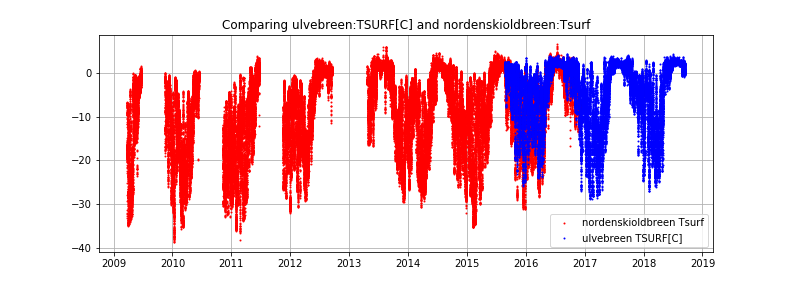
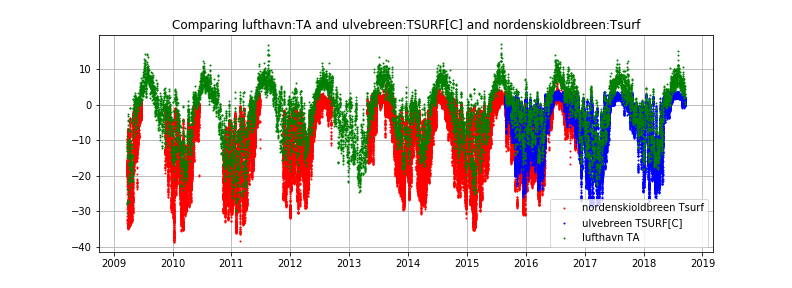
Added luft in figures

Changed region(s): [[0.0909, 0.1562, 0.9091, 0.875], [0.2121, 0.0625, 0.8182, 0.125]]

diff --git a/comparing.py b/comparing.py
@@ -8,38 +8,39 @@ Created on Mon Oct  1 10:27:23 2018
 import numpy as np
 import matplotlib.pyplot as plt
 
-#listnorden=['WD', 'WS', 'WSm', 'Sin', 'Sout', 'Lin', 'Lout', 'Trad', 'Tsurf', 'Tpot', 'T', 'T2m', 'q', 'RH', 'P', 'H1', 'Q1', 'H2', 'Q2', 'T1', 'T2', 'T3', 'T4', 'T5', 'T6', 'T7', 'T8', 'T9', 'T10', 'A1', 'A2', 'Bat', 'Tint', 'Stoa', 'Qual', 'AWSid']
-#listulven= ['TC1avg[C]', 'TC2avg[C]', 'TSURF[C]', 'TSTR1[C]', 'TSTR2[C]', 'TSTR3[C]', 'TSTR4[C]', 'TSTR5[C]', 'TSTR6[C]', 'TSTR7[C]', 'TSTR8[C]', 'THUTavg[C]', 'THUT2m[K]', 'THUTpot[K]', 'RHWavg[%]', 'SPECHUM[g_kg]', 'HWSavg[m_s]', 'HWSmax[m_s]', 'HWDavg[deg]', 'Stoa[W_m2]', 'NRUavg[W_m2]', 'NRLavg[W_m2]', 'NRIUavg[W_m2]', 'NRILavg[W_m2]', 'NRTavg[C]', 'BAP[hPa]', 'SSH[m]', 'ADW[m]', 'MCH[deg]', 'TILTX[deg]', 'TILTY[deg]', 'LON[deg]', 'LAT[deg]', 'HMSL[m]', 'VBAT[V]', 'LBUT[days]', 'Qual', 'AWSid']
-
-
-listnorden=['Tsurf', 'T2m', 'RH', "WD", ]
-listulven= ['TSURF[C]', 'THUT2m[K]', 'RHWavg[%]', 'HWDavg[deg]']
+listnorden=['Tsurf', "WD", "WS","WSm", 'T2m', 'RH',]
+listulven= ['TSURF[C]','HWDavg[deg]', "HWSavg[m_s]", "HWSmax[m_s]",'THUT2m[K]', 'RHWavg[%]', ]
+listluft=['TA', 'DD', "FF", ]
 
 # =============================================================================
-# Raw data
+#%% Raw data
 # =============================================================================
-daten=np.load("Nordenskioldbreen/Date.npy")
+
 dateu=np.load("Ulvebreen/Date.npy")
-
 ulve={}
-for k, i in enumerate(listulven):
-        print(k)
-        ulve["{0}".format(i)]=np.load("Ulvebreen/"+i+".npy")   
+for k, i in enumerate(listulven): ulve["{0}".format(i)]=np.load("Ulvebreen/"+i+".npy")   
 
+datel=np.load("Lufthavn2/Date.npy")
+luft={}
+for k, j in enumerate(listluft):  luft["{0}".format(j)]=np.load("Lufthavn/"+j+".npy")
+
+daten=np.load("Nordenskioldbreen/Date.npy")       
 norden={}
-for k, j in enumerate(listnorden):
-        norden["{0}".format(j)]=np.load("Nordenskioldbreen/"+j+".npy")   
-
+for k, j in enumerate(listnorden): norden["{0}".format(j)]=np.load("Nordenskioldbreen/"+j+".npy")   
+        
 for l in range(k+1):
     fig=plt.figure(1, figsize=(11, 4))
     plt.plot(daten, norden[listnorden[l]], '.', color='red', markersize = 2, label="nordenskioldbreen "+listnorden[l])
     plt.plot(dateu, ulve[listulven[l]], '.', color='blue', markersize = 2, label="ulvebreen "+listulven[0])
-    plt.title("Comparing ulvebreen:"+listulven[l]+" and nordenskioldbreen:"+listnorden[l])
+    if l < (len(listluft)):
+        plt.plot(datel, luft[listluft[l]], '.', color='green', markersize = 2, label="lufthavn "+listluft[0])
+        plt.title("Comparing lufthavn:"+listluft[l]+" and ulvebreen:"+listulven[l]+" and nordenskioldbreen:"+listnorden[l])
+    else: plt.title("Comparing ulvebreen:"+listulven[l]+" and nordenskioldbreen:"+listnorden[l])
     plt.grid(True); plt.legend(); plt.show();# show plot on screen
     fig.savefig("Figures/compare/compare_n"+listnorden[l]+"_u"+listulven[l]+".png")
 
 # =============================================================================
-#  average   
+#%%  average   
 # =============================================================================
 
 ulve={}
